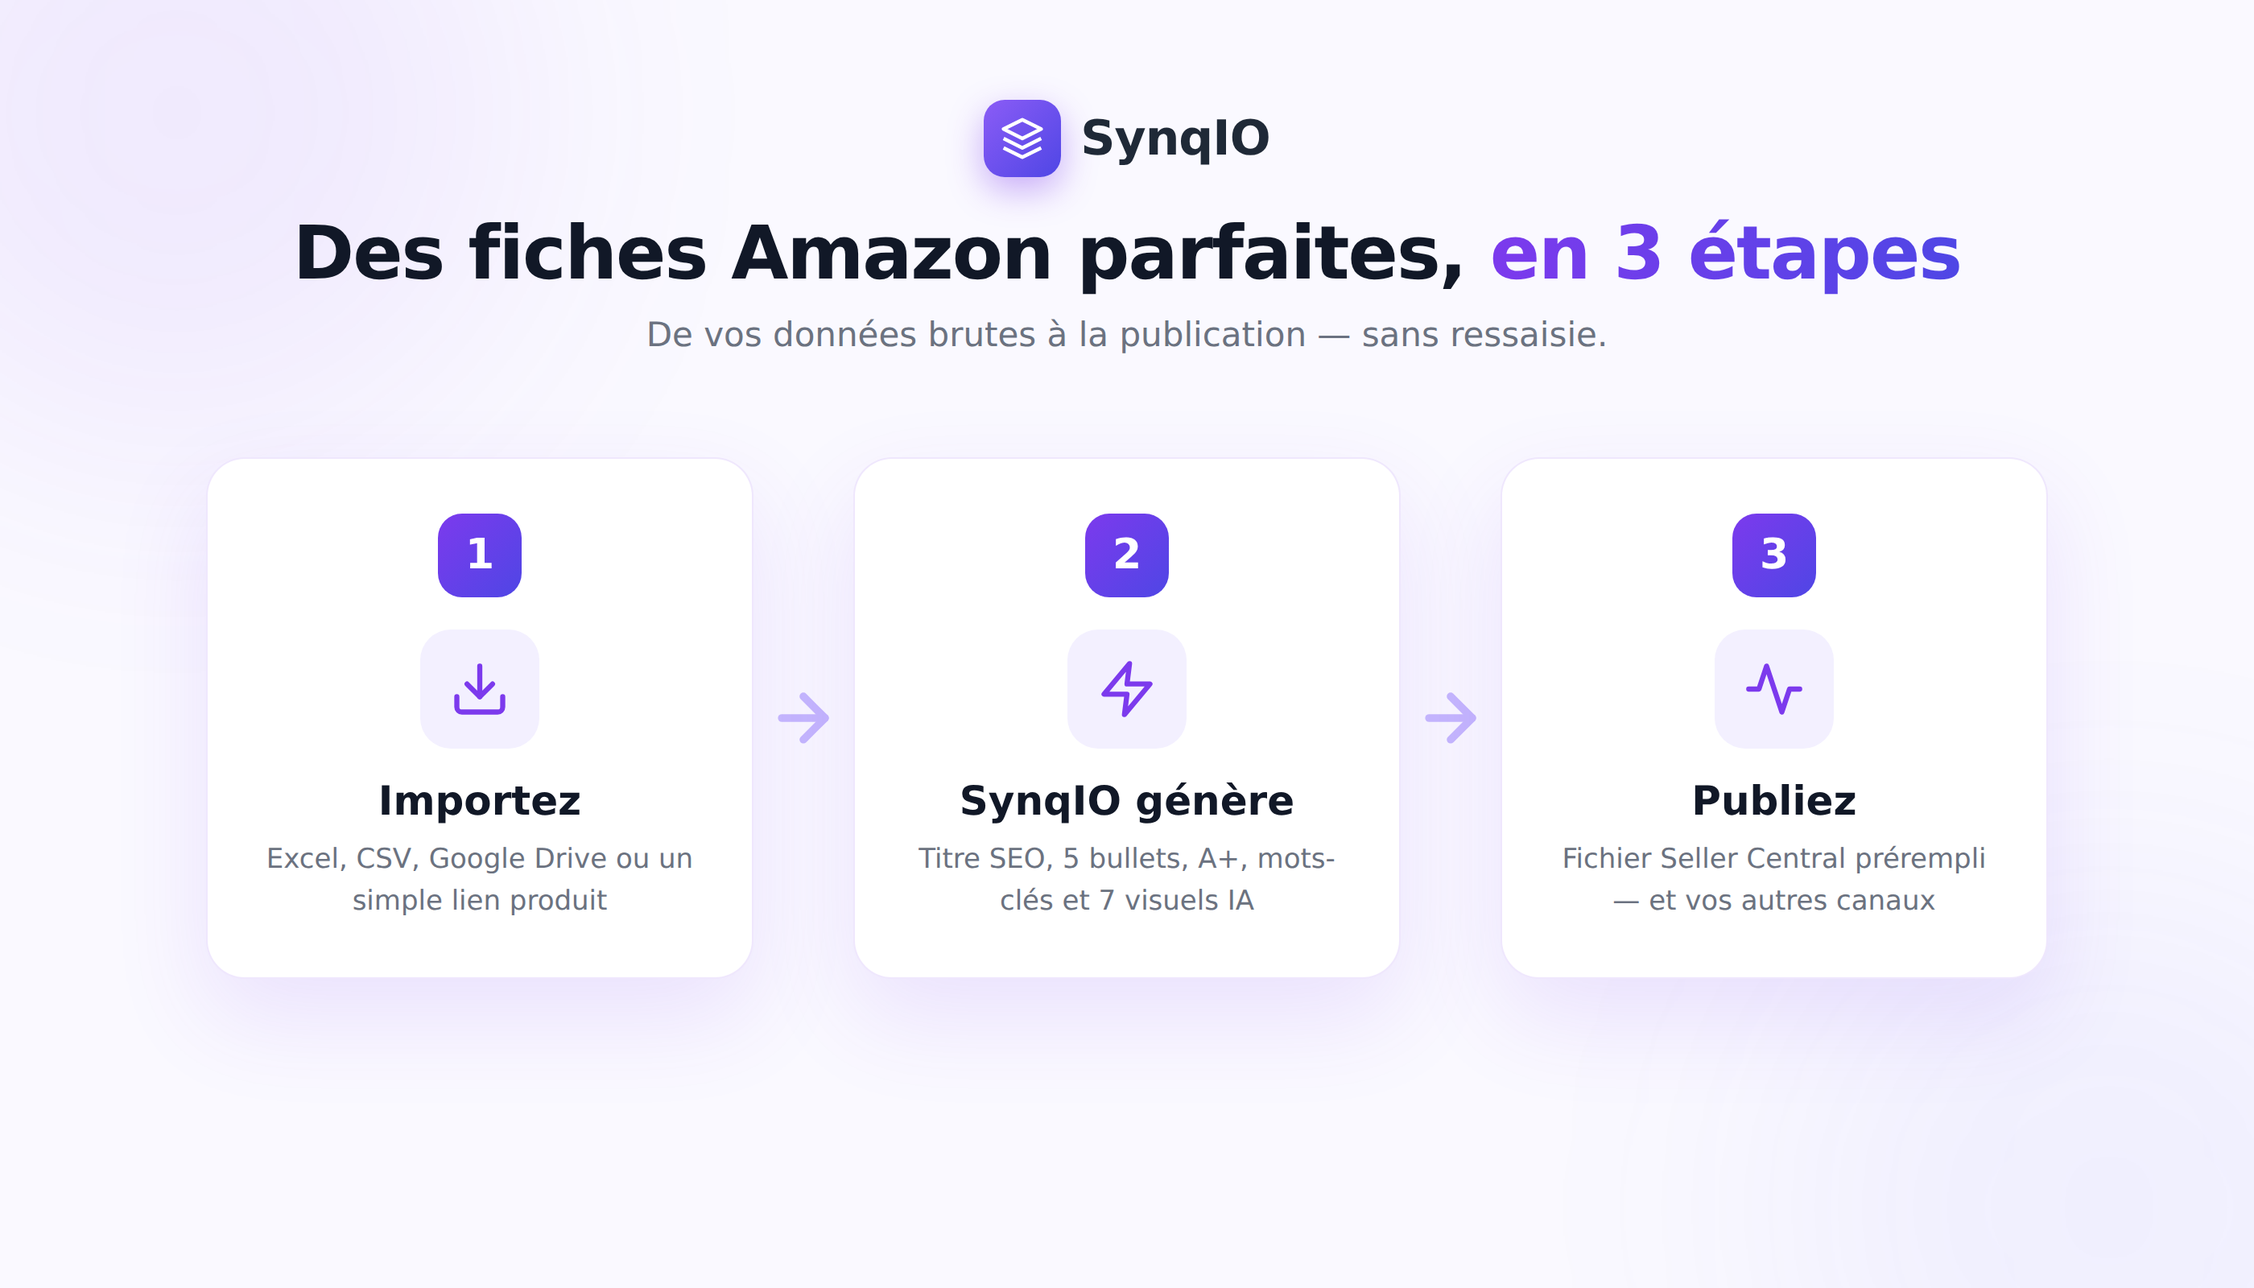
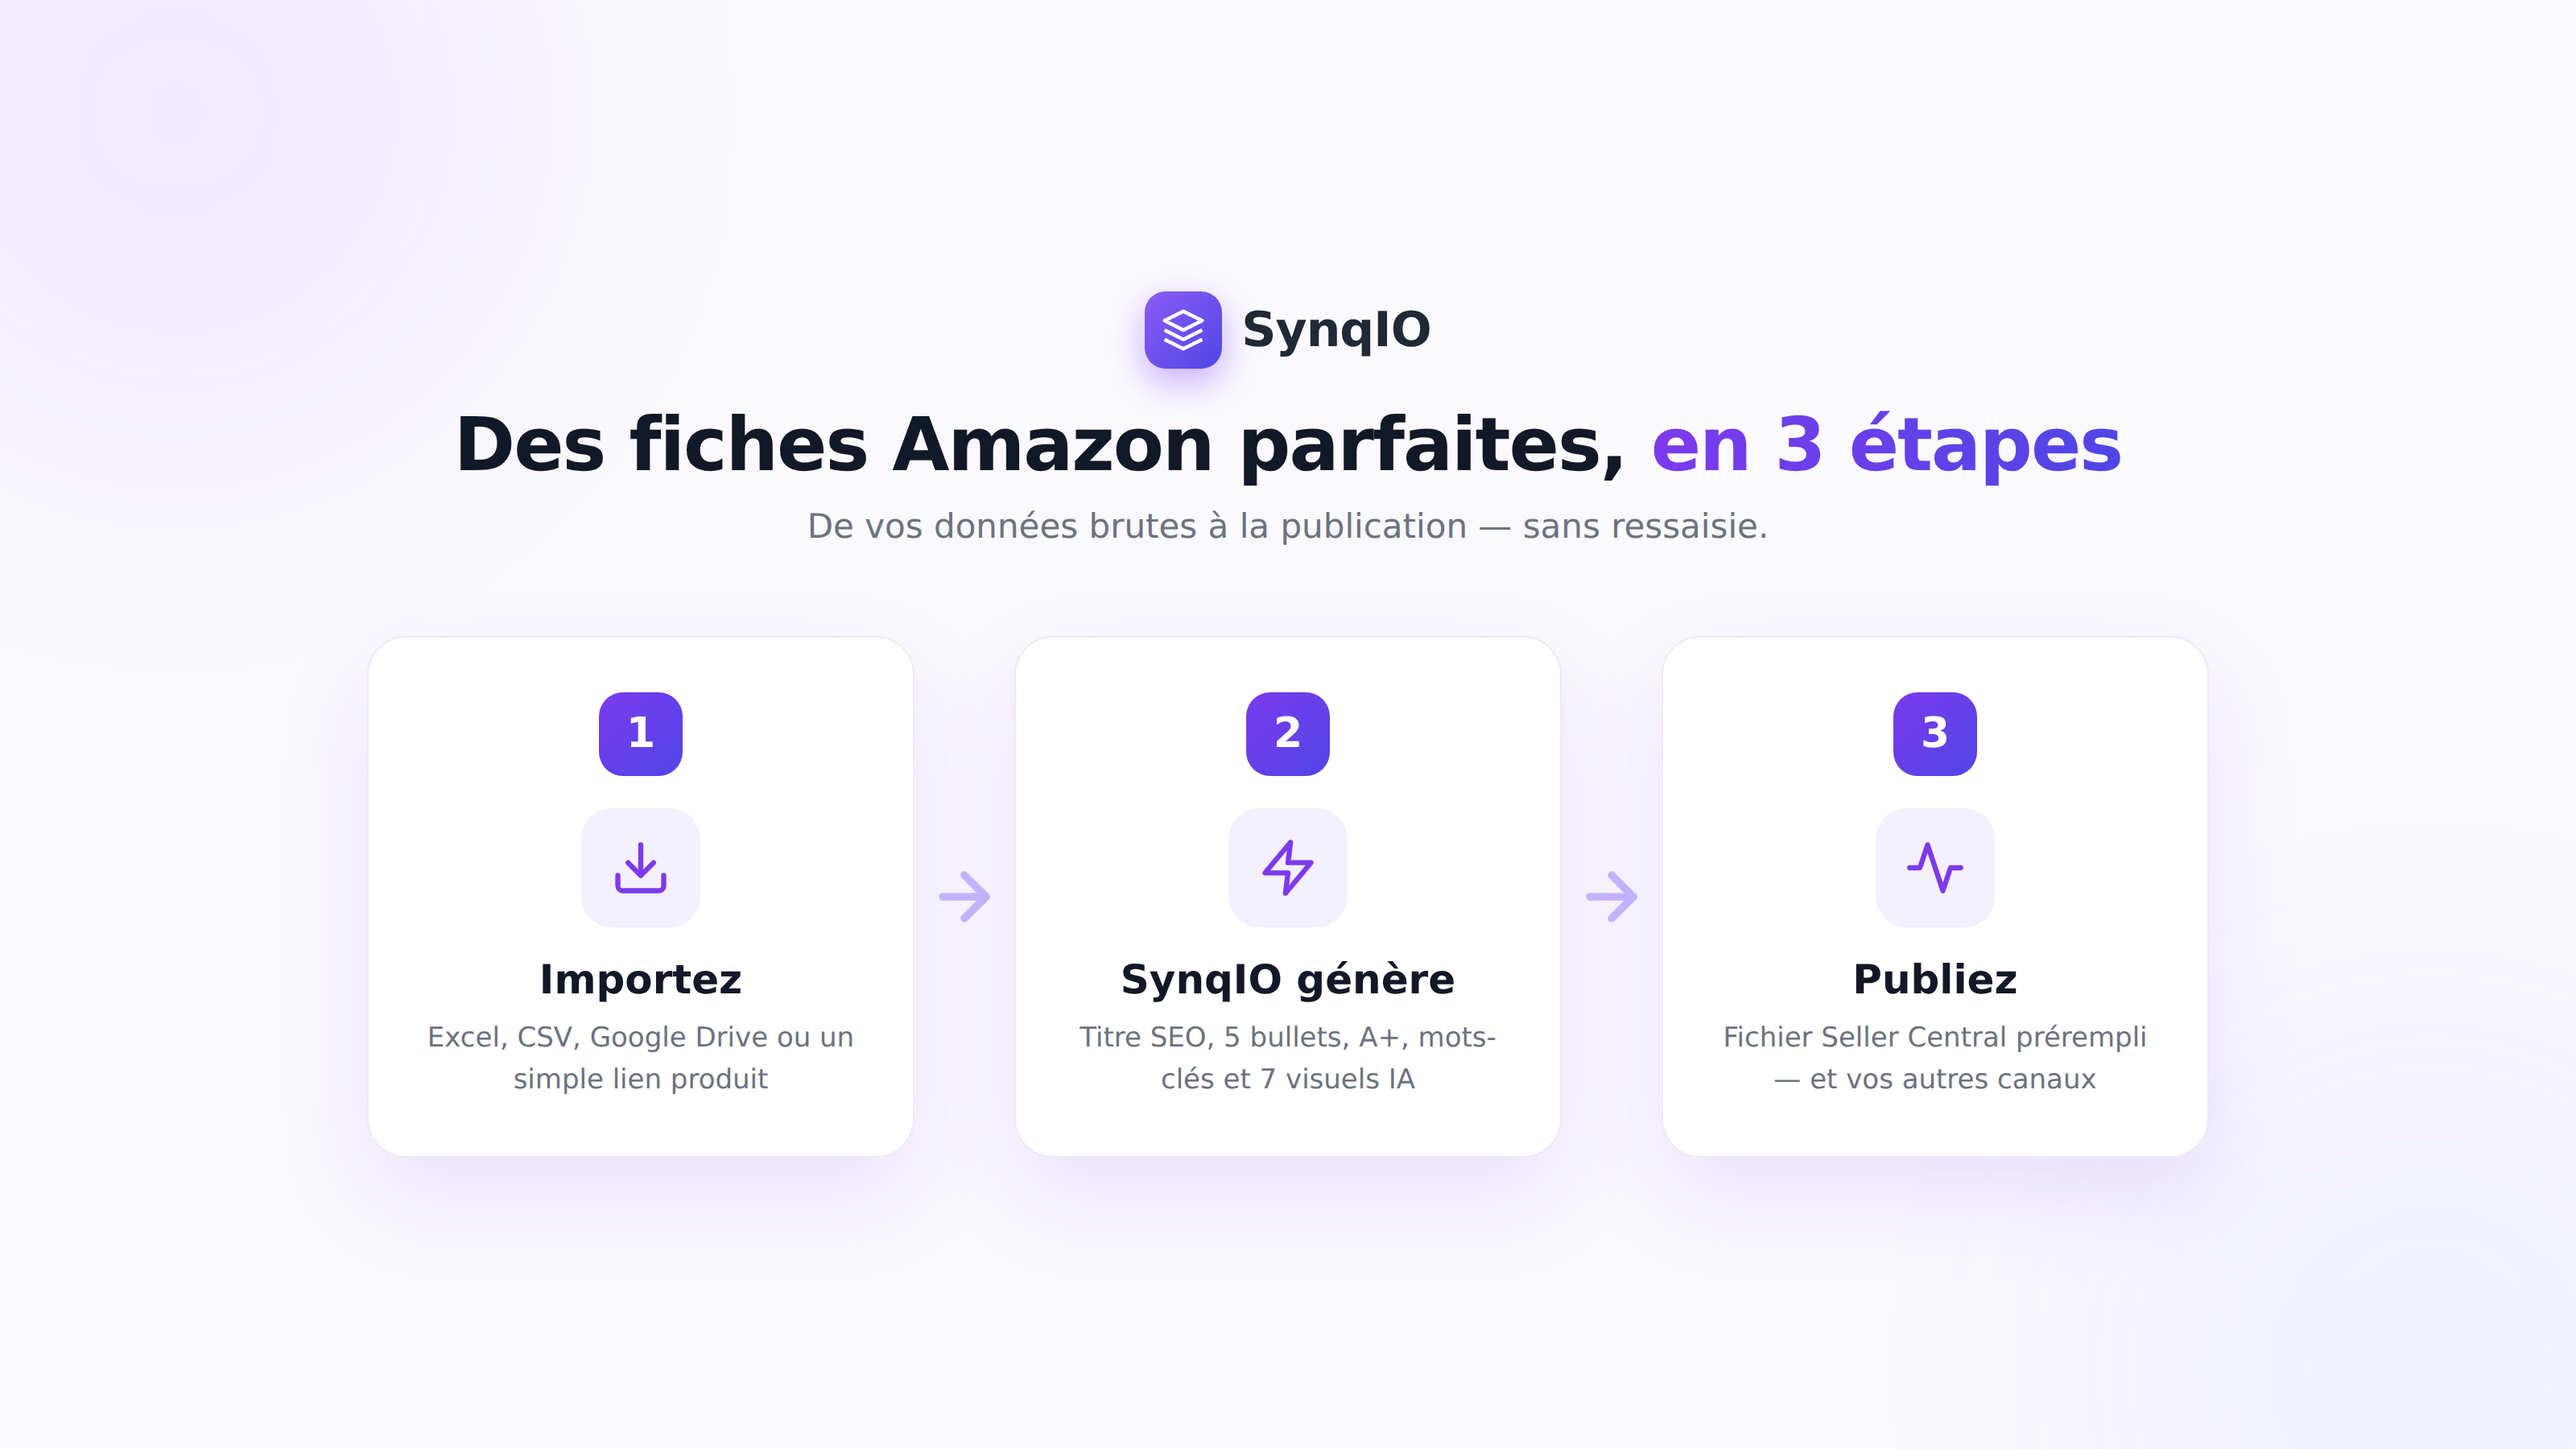
fix(assets): gallery image to 16:9 (1600x900) for Amazon aspect-ratio rule
Amazon rejected the 1.75:1 gallery image (sps-dev-console-image-aspect-ratio).
Re-render at exact 16:9 with vertically-centred content.

diff --git a/synqio-appstore-gallery.html b/synqio-appstore-gallery.html
@@ -2,16 +2,16 @@
 <html lang="fr"><head><meta charset="UTF-8">
 <style>
   * { margin:0; padding:0; box-sizing:border-box; }
-  body { width:1400px; height:800px; overflow:hidden; font-family:'Segoe UI', system-ui, -apple-system, sans-serif; }
+  body { width:1600px; height:900px; overflow:hidden; font-family:'Segoe UI', system-ui, -apple-system, sans-serif; }
   .g {
-    width:1400px; height:800px; position:relative; overflow:hidden;
-    background:#faf9ff; display:flex; flex-direction:column; align-items:center;
+    width:1600px; height:900px; position:relative; overflow:hidden;
+    background:#faf9ff; display:flex; flex-direction:column; align-items:center; justify-content:center; gap:56px;
   }
   .glow { position:absolute; border-radius:50%; filter:blur(90px); opacity:.5; }
   .g1 { width:420px; height:420px; background:rgba(124,58,237,0.16); top:-140px; left:-100px; }
   .g2 { width:420px; height:420px; background:rgba(99,102,241,0.13); bottom:-160px; right:-120px; }
 
-  .head { text-align:center; margin-top:62px; z-index:2; }
+  .head { text-align:center; z-index:2; }
   .brand { display:inline-flex; align-items:center; gap:12px; margin-bottom:20px; }
   .mark { width:48px; height:48px; border-radius:13px; background:linear-gradient(135deg,#8b5cf6,#4f46e5); display:flex; align-items:center; justify-content:center; box-shadow:0 8px 22px rgba(124,58,237,0.4); }
   .bname { color:#1f2937; font-size:30px; font-weight:800; letter-spacing:-0.5px; }
@@ -19,7 +19,7 @@
   h1 .grad { background:linear-gradient(90deg,#7c3aed,#4f46e5); -webkit-background-clip:text; -webkit-text-fill-color:transparent; }
   .sub { color:#6b7280; font-size:21px; margin-top:12px; }
 
-  .steps { display:flex; align-items:stretch; gap:0; margin-top:64px; z-index:2; }
+  .steps { display:flex; align-items:stretch; gap:0; z-index:2; }
   .step { width:340px; background:white; border:1px solid rgba(124,58,237,0.12); border-radius:24px; padding:34px 30px; box-shadow:0 24px 60px rgba(124,58,237,0.12); text-align:center; }
   .num { width:52px; height:52px; margin:0 auto 20px; border-radius:15px; background:linear-gradient(135deg,#7c3aed,#4f46e5); color:white; font-size:26px; font-weight:800; display:flex; align-items:center; justify-content:center; }
   .icon { width:74px; height:74px; margin:0 auto 18px; border-radius:19px; background:#f3f0ff; display:flex; align-items:center; justify-content:center; }
